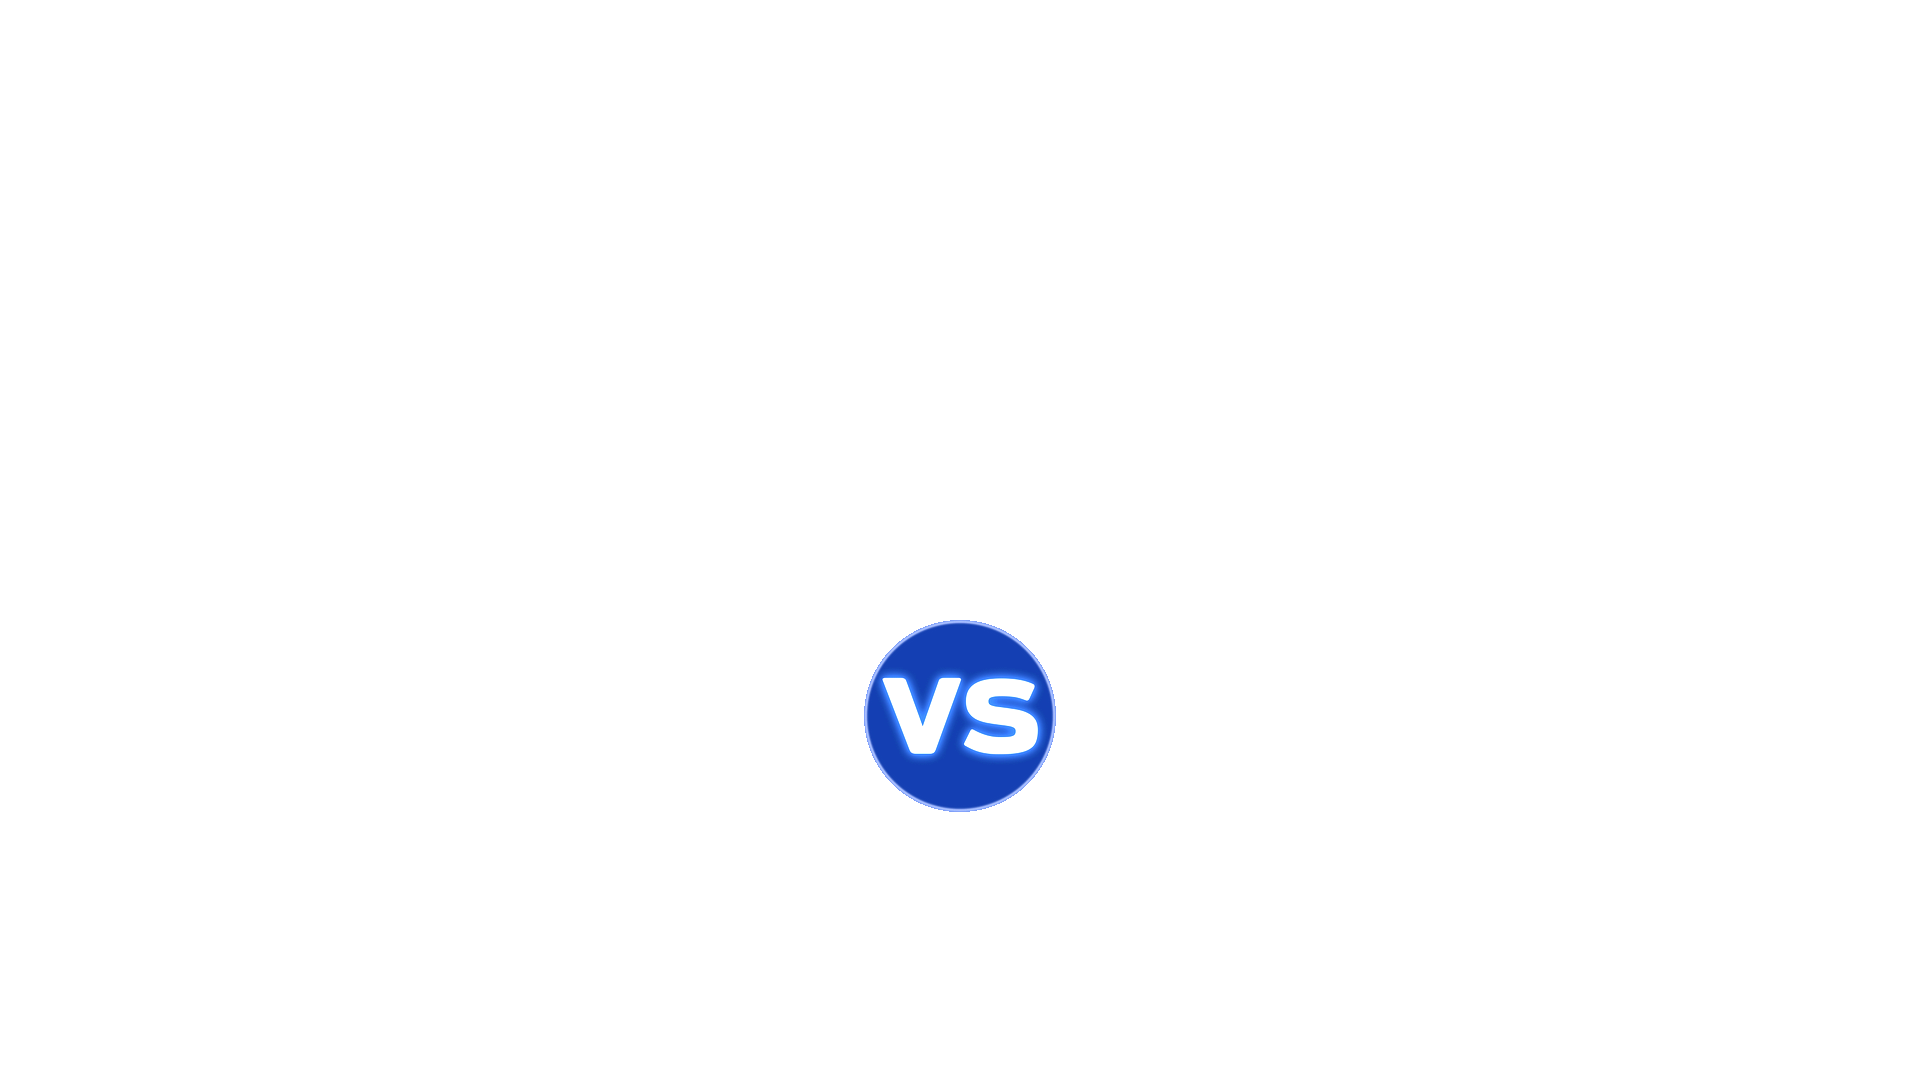
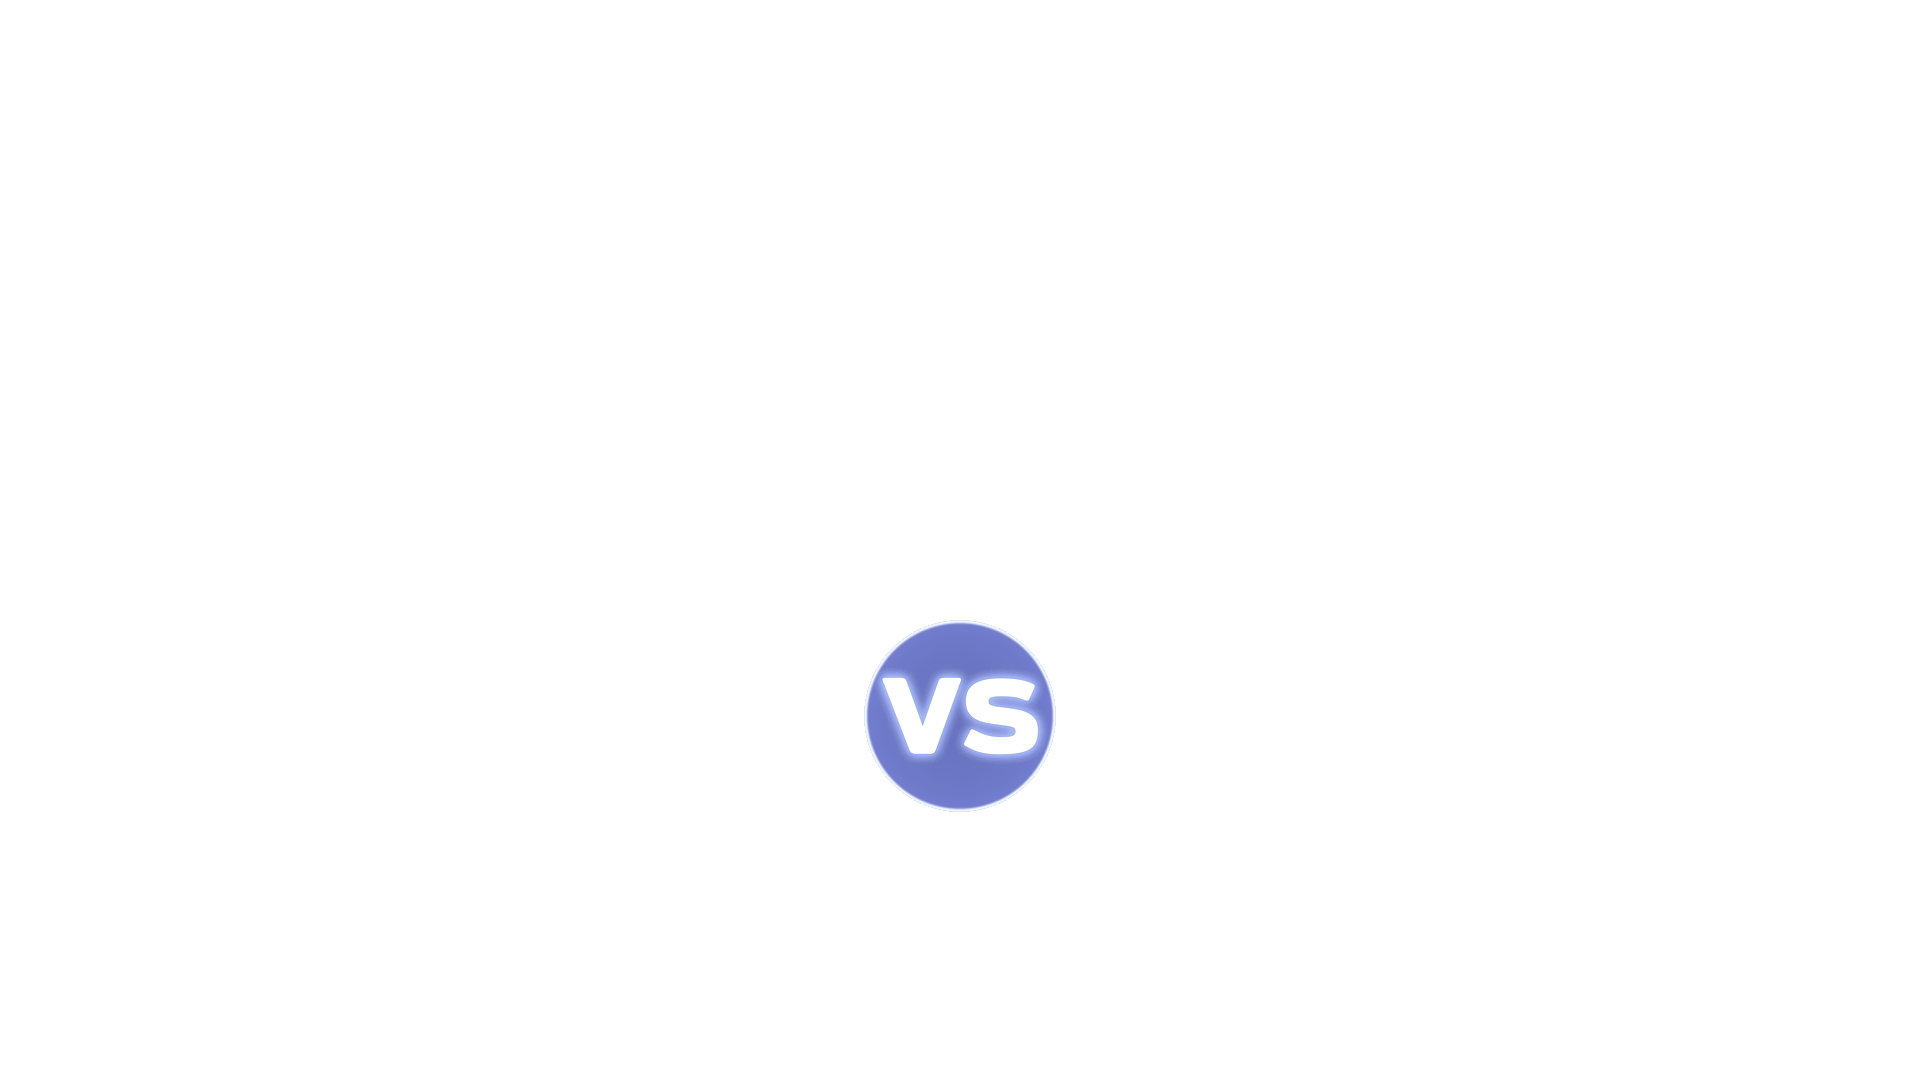
V9.2 Changed title text from blue to ultralight Blue along with two graphics

Changed region(s): [[0.4375, 0.5806, 0.5625, 0.7639]]

diff --git a/scorpy.py b/scorpy.py
@@ -54,6 +54,7 @@
 9b6 messages3 ok
 9.0 Release.
 9.1 Tidy up
+9.2 blue text now appears as white
 
 
 
@@ -69,7 +70,7 @@ import os
 import sys
 
 
-scorpy_version = "Scorpy 9.1"
+scorpy_version = "Scorpy 9.2"
 sys.path.append('../../mnt/volume/')
 pygame.init()
 windowSizeX = 1920
@@ -101,7 +102,7 @@ counting_down = True
 white = (250,250,250)
 yellow = (220,200,160)
 black = (0,0,0)
-blue = (30, 30, 140)
+blue = (200, 200, 240)
 red = (250, 60, 60)
 greenScreen = (0, 150, 0)
 green2 = (0, 175, 0)
